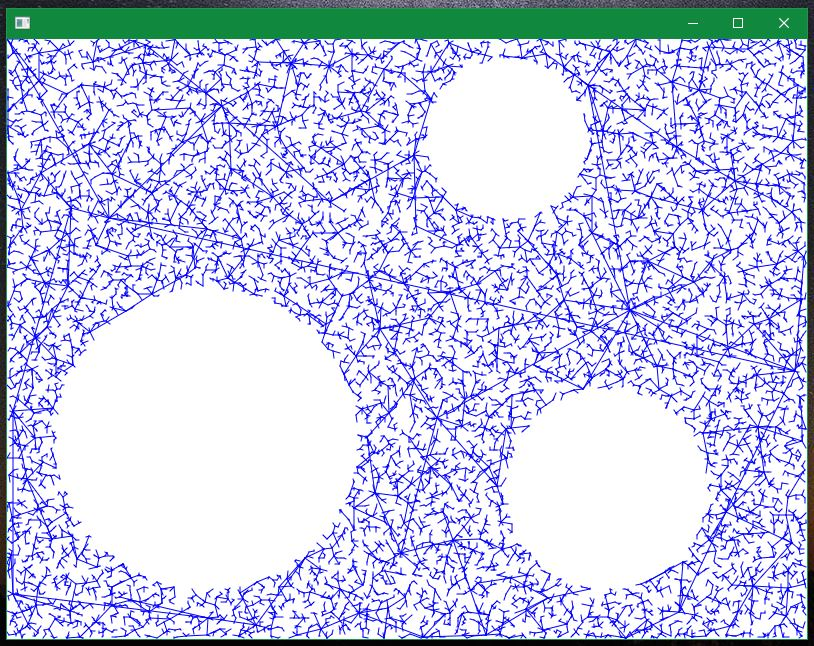
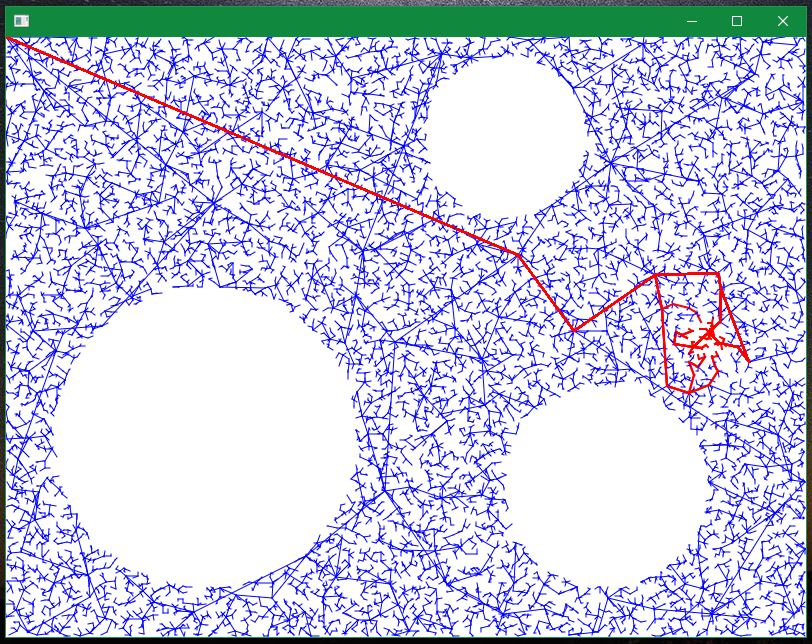
Add the backtracking for the obstacle-free path

diff --git a/src/application/Main.java b/src/application/Main.java
@@ -28,6 +28,9 @@ public class Main extends Application {
 	static final int INIT_X = 0;
 	static final int INIT_Y = 0;	
 	static final int DIST = 20;
+	static final int FIN_X = 700;
+	static final int FIN_Y = 300;
+	static final int MARGIN = 20;
 	
 	static boolean good = true;
 	
@@ -70,15 +73,13 @@ public class Main extends Application {
         G.add(init);
         
         for(int i = 0; i<SIZE; i++){
-        	Node rand = getRandomNode(k);
+        	Node rand = getRandomNode(k++);
         	Node nearest = getNearestNode(rand);
         	rand.setPrev(nearest);
         	nearest.setNext(rand);
-        	
         	Line2D line = new Line2D.Double(rand.x, rand.y, nearest.x, nearest.y);
        	
-        	
-        	for(Obstacle o : obs){
+           	for(Obstacle o : obs){
         		if(line.ptSegDist(new Point2D.Double(o.x, o.y)) <= o.radius){
         			good = false;
         		}
@@ -87,6 +88,21 @@ public class Main extends Application {
     			G.add(rand);
             	gc.strokeLine(rand.x, rand.y, nearest.x, nearest.y);
     		}
+        	if(line.ptSegDist(Main.FIN_X, Main.FIN_Y) <=Main.MARGIN && good){
+        		gc.setStroke(Color.RED);
+        		gc.setLineWidth(2);
+        		Node current = rand;
+        		Node previous;
+        		while(current.n != 0){
+        			System.out.println(current);
+        			previous = current.prev;
+        			gc.strokeLine(previous.x, previous.y, current.x, current.y);
+        			current = previous;
+        		}
+        		gc.setStroke(Color.BLUE);
+        		gc.setLineWidth(1);
+        	}
+        	
         	good = true;
         }
         
